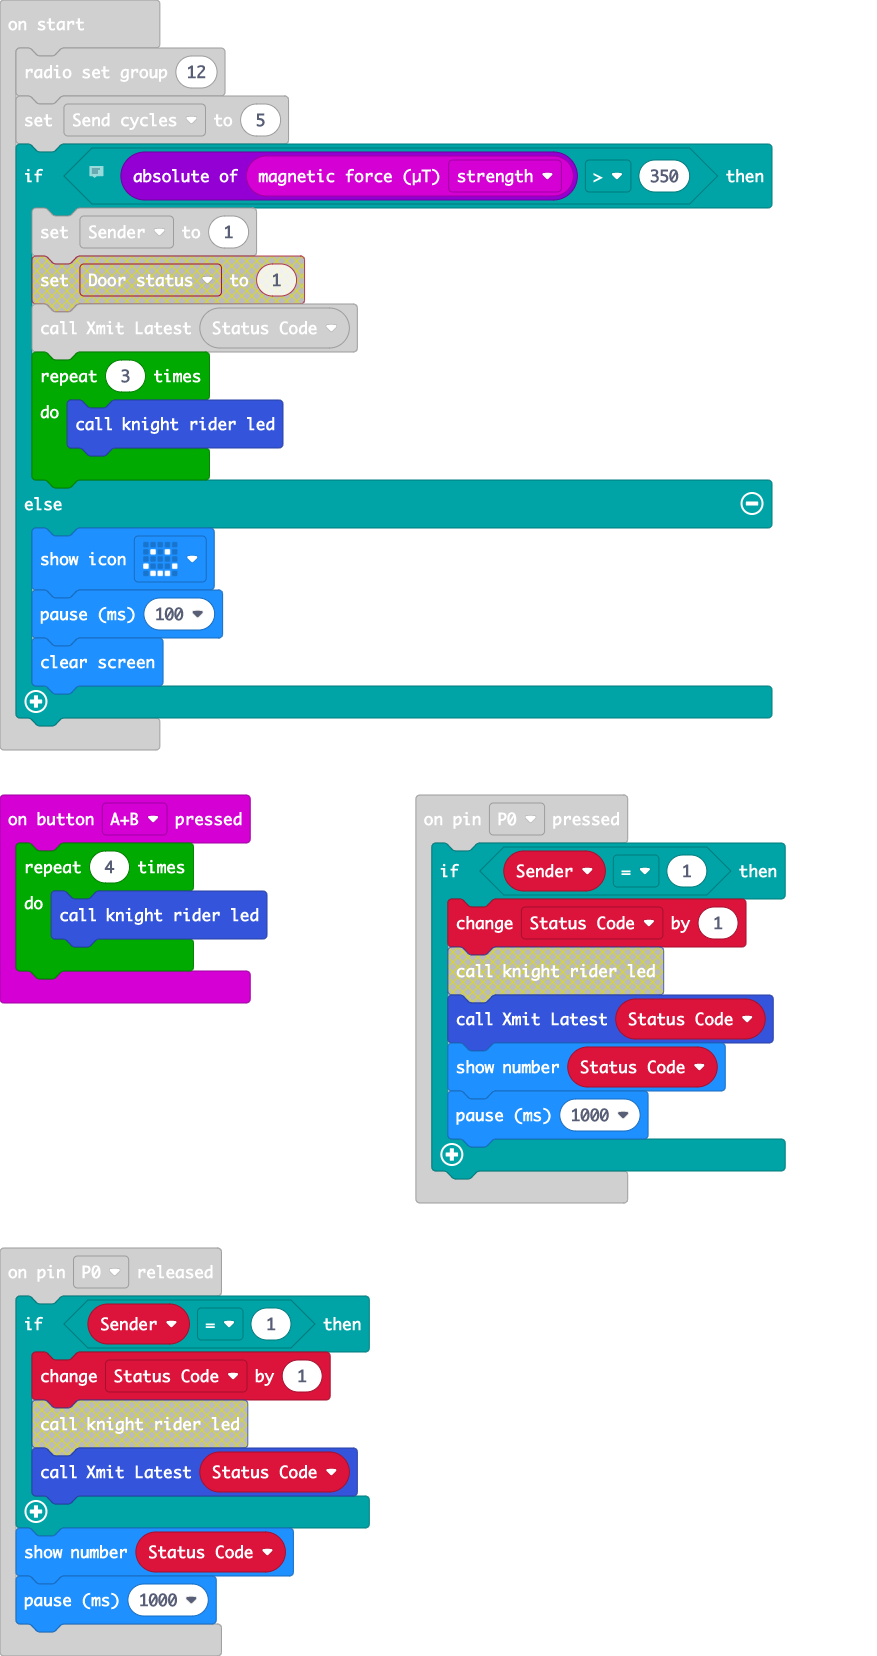
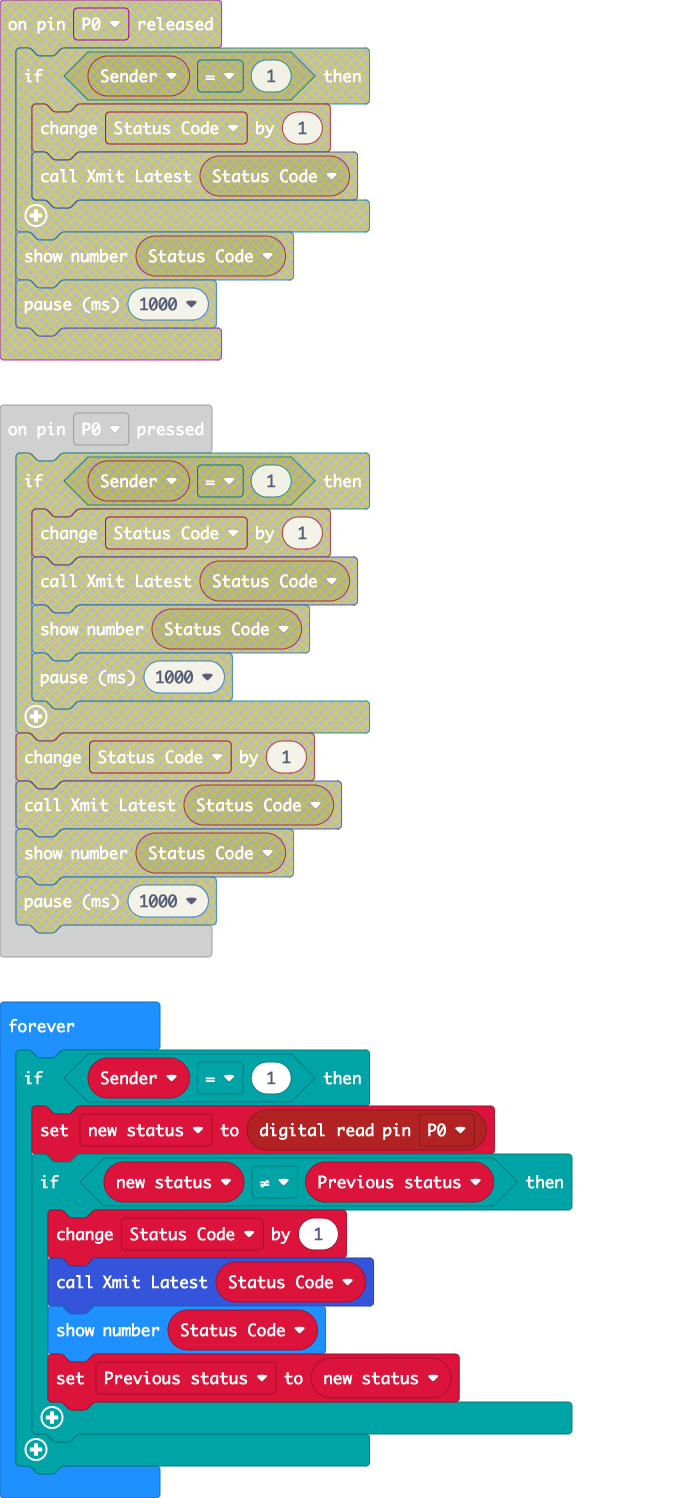
Works satisfactorily; screen view needs to be a function

diff --git a/main.ts b/main.ts
@@ -1,10 +1,5 @@
 input.onPinPressed(TouchPin.P0, function () {
-    if (Sender == 1) {
-        Status_Code += 1
-        Xmit_Latest(Status_Code)
-        basic.showNumber(Status_Code)
-        basic.pause(1000)
-    }
+	
 })
 radio.onReceivedNumber(function (receivedNumber) {
     if (Sender == 0) {
@@ -29,14 +24,6 @@ radio.onReceivedNumber(function (receivedNumber) {
             Xmit_Latest(receivedNumber)
         }
     }
-})
-input.onPinReleased(TouchPin.P0, function () {
-    if (Sender == 1) {
-        Status_Code += 1
-        Xmit_Latest(Status_Code)
-    }
-    basic.showNumber(Status_Code)
-    basic.pause(1000)
 })
 function Xmit_Latest (num: number) {
     for (let index = 0; index < Send_cycles; index++) {
@@ -70,6 +57,8 @@ input.onButtonPressed(Button.B, function () {
         basic.showNumber(Local_Status_Code)
     }
 })
+let Previous_status = 0
+let new_status = 0
 let Local_Status_Code = 0
 let Status_Code = 0
 let Sender = 0
@@ -88,3 +77,14 @@ if (Math.abs(input.magneticForce(Dimension.Strength)) > 350) {
     basic.pause(100)
     basic.clearScreen()
 }
+basic.forever(function () {
+    if (Sender == 1) {
+        new_status = pins.digitalReadPin(DigitalPin.P0)
+        if (new_status != Previous_status) {
+            Status_Code += 1
+            Xmit_Latest(Status_Code)
+            basic.showNumber(Status_Code)
+            Previous_status = new_status
+        }
+    }
+})
